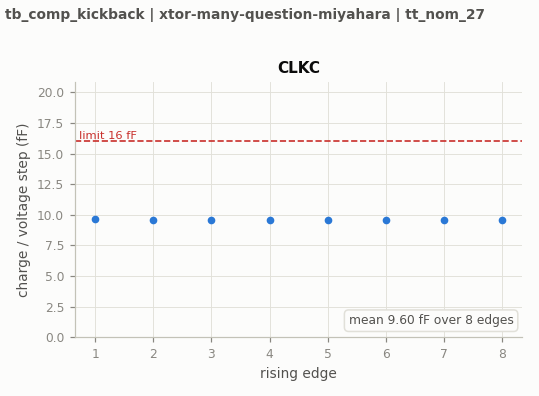
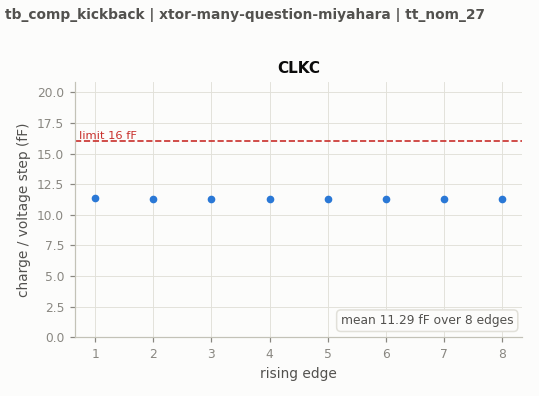
Record genuine B20 TT capacitance and kickback pass

diff --git a/design/xtor/adc_comp/many-question-miyahara/README.md b/design/xtor/adc_comp/many-question-miyahara/README.md
@@ -4,10 +4,16 @@ The canonical `adc_comp.scs` now contains the electrically identical source scre
 
 The source contains 43 MOS devices and 9 physical MOM capacitors. All dimensions and terminal parasitics come from successful callbacks or exact validated geometry reuse. Physical rail loads carry persistent current; [ENERGY-COMPARISON.md](ENERGY-COMPARISON.md) reports measured complete-circuit AVDD costs. No power limit or topology-efficiency conclusion is implied.
 
-The old canonical netlist and all 96 official records are preserved at commit `5a9405c5ff48d3493c7098a7987ff7c56f7df001` and in a SHA-verified archive. At preservation, 6 records matched the immediate old canonical source and 90 already referred to older sources. All 96 are stale for the new source. They will be replaced only by actual new-source runs through the existing official runner; no private measurements or old metadata are relabeled. [Promotion proof](PROMOTION-BUFFER-V20.md) records source equivalence and preserved hashes. [Historical baseline](BASELINE-BEFORE-BUFFER-V20.md) retains the previous narrative and experiment links.
+The old canonical netlist and all 96 official records are preserved at commit `5a9405c5ff48d3493c7098a7987ff7c56f7df001` and in a SHA-verified archive. At preservation, 6 records matched the immediate old canonical source and 90 already referred to older sources. At promotion, all 96 records were stale for the new source. Current original-run coverage is reported below. They will be replaced only by actual new-source runs through the existing official runner; no private measurements or old metadata are relabeled. [Promotion proof](PROMOTION-BUFFER-V20.md) records source equivalence and preserved hashes. [Historical baseline](BASELINE-BEFORE-BUFFER-V20.md) retains the previous narrative and experiment links.
 
-Next formal gates are TT input/clock capacitance and kickback, followed by TT noise. Remaining-corner SOA, all required formal corners, Monte Carlo and mixed-top qualification remain to establish. No old capacitance, noise, mismatch or qualification result is inherited.
+The original-run gate status below supersedes the initial post-promotion plan. Remaining-corner SOA, all required formal corners, Monte Carlo and mixed-top qualification remain to establish. No old capacitance, noise, mismatch or qualification result is inherited.
 
 ![Current complete transistor schematic](schematic.png)
 
 Issues #40, #63, #69, #75, #77, #78 and #84 remain acknowledged. Every older experiment and failed screen is retained separately.
+
+## Current original-run status
+
+Original TT capacitance/kickback PASS: input 19.328731 fF, CLKC 11.287775 fF and kickback 0.004586 uV. The next gate is the original complete TT noise test.
+
+1 of 96 records match the current electrical source; 95 retain older source hashes. [Original-run evidence](FORMAL-BUFFER-V20.md) preserves actual metadata, counts and archives. Source matching does not imply passing.

diff --git a/design/xtor/adc_comp/many-question-miyahara/FORMAL-BUFFER-V20.md b/design/xtor/adc_comp/many-question-miyahara/FORMAL-BUFFER-V20.md
@@ -1,0 +1,24 @@
+# Official validation: BUFFER-V20
+
[1 lines of base64/hex data omitted]
+
+
+## Original run 20261031-113139-5118-tb_comp_kickback
+
+Actual clean source commit: `b60845b1101f1e27319fed36fdc2447b323f5b1f`. The canonical view, original testbench, sampler, numerical settings, measurement and recorder are unchanged. The private wrapper only accounts for resources, directs temporary data to SSD, verifies retrieved hashes and removes the exact owned run.
+
+### tt_nom_27: PASS
+
+| Metric | Measured | Limit |
+|---|---:|---:|
+| Input capacitance per input | 19.328731219 fF | 20 fF |
+| CLKC input capacitance | 11.287775424 fF | 16 fF |
+| Differential kickback | 0.004586038 uV | 40 uV |
+
+This formal capacitance result is separate from the mixed-delay clock-charge diagnostic.
+
+The [genuine result JSON](../../../../results/adc_comp/tb_comp_kickback/xtor-many-question-miyahara/tt_nom_27.json) retains its original clean-source metadata.
+
[1 lines of base64/hex data omitted]
+
+At this checkpoint, 1 of 96 official records match this source and 95 retain older source hashes. Source matching does not imply passing. The next gate is the original complete TT noise test. Remaining-corner SOA, all formal coverage, mismatch, operating-range checks, mixed-top qualification and lead review remain open. No source is selected or qualified.
